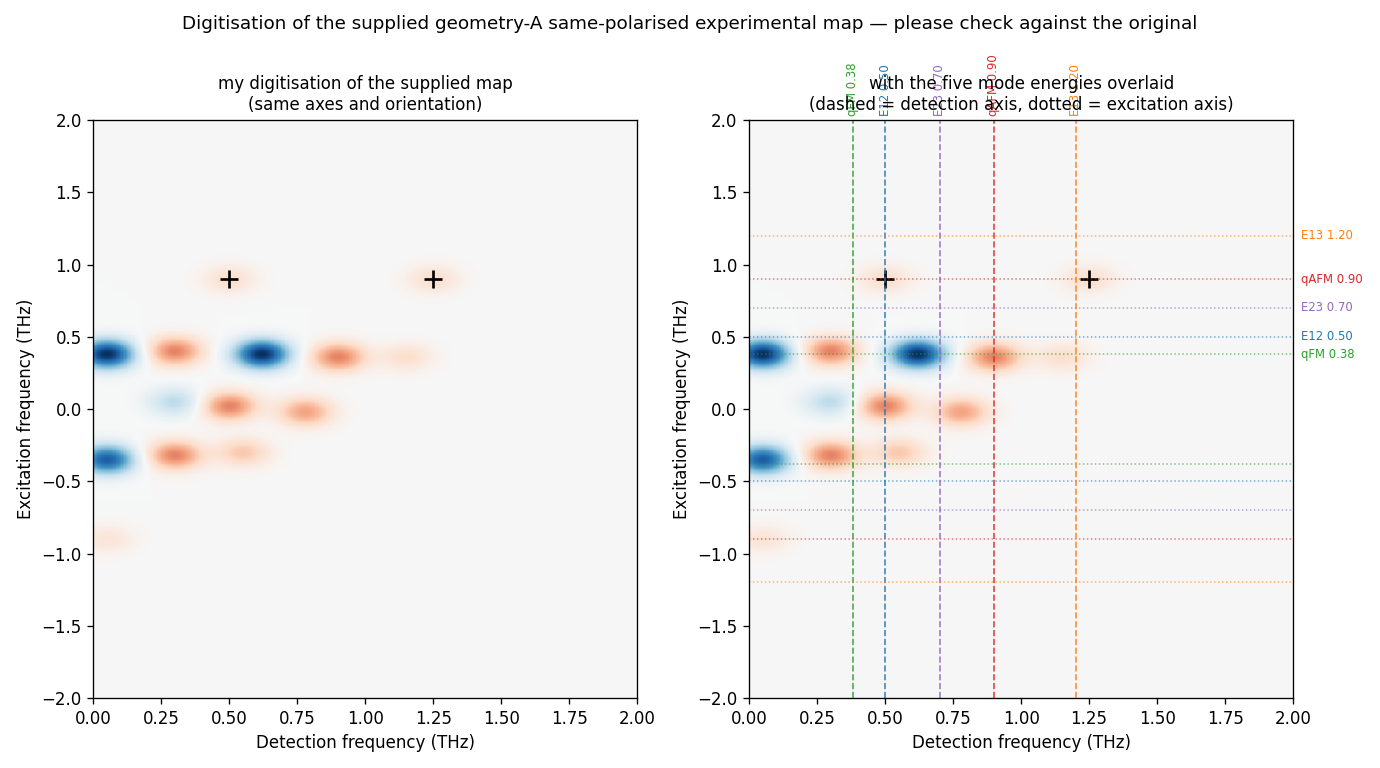
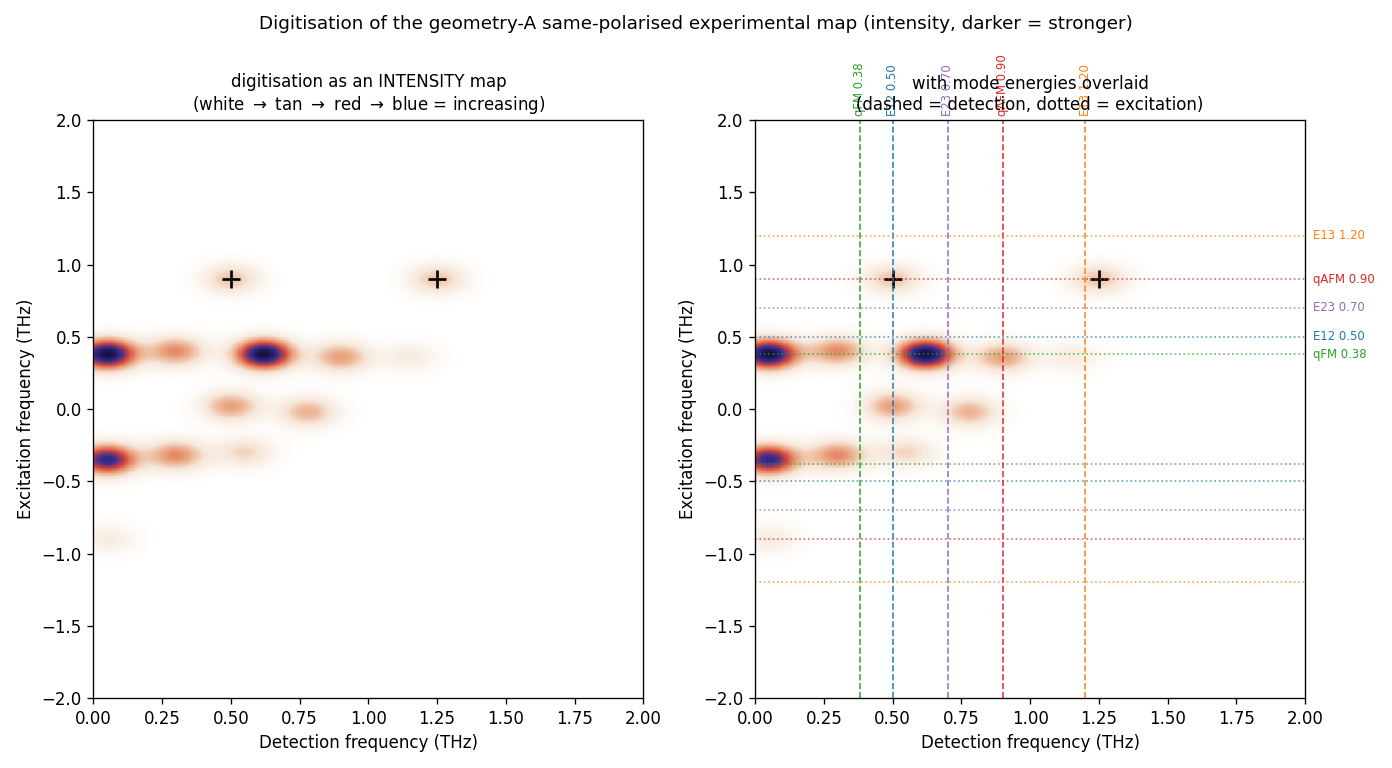
Correct the digitisation: the experimental map is an INTENSITY map, not signed
My first reading treated the red/blue colour scale as diverging (signed) and so
assigned the blue blobs negative amplitude. It is an intensity map: white -> tan
-> red -> dark blue with DARKER = LARGER, so the blue blobs are the STRONGEST
features and everything is positive. That makes it directly comparable with our
|FFT| censuses (no real-part component needed).

Corrected peak list, our convention (omega_tau, omega_t), normalised:
   1.00  (+0.38, 0.05)      <- qFM excitation, near-DC detection
   1.00  (+0.38, 0.62)      <- qFM excitation
   0.85  (-0.35, 0.05)
   0.45  (+0.40, 0.30)  /  0.45  (-0.32, 0.30)
   0.40  (+0.36, 0.90)      <- qFM excitation, qAFM detection
   0.40  (+0.02, 0.50)  /  0.35  (-0.02, 0.78)   <- pump-probe row
   0.30  (+0.90, 0.50)      <- MARKED, (qAFM, E12)
   0.30  (+0.90, 1.25)      <- MARKED, (qAFM, E13)
   0.25  (-0.30, 0.55) ; 0.15 (+0.36, 1.15) ; 0.15 (-0.90, 0.05)

Structure: the map is dominated by the qFM (+-0.38) excitation rows, which carry
a progression in detection (0.05, 0.30, 0.62, 0.90, 1.15); there is NO strong
feature on a 0.50 (E12) excitation row; the two marked peaks sit on the qAFM
excitation row at ~0.3 of the maximum. Discrepancy with the earlier same-pol
list remains flagged in the json.

diff --git a/tfo_project/paper/scripts/digitise_experiment.py b/tfo_project/paper/scripts/digitise_experiment.py
@@ -1,34 +1,33 @@
 import json, numpy as np
 import matplotlib; matplotlib.use("Agg"); import matplotlib.pyplot as plt
+from matplotlib.colors import LinearSegmentedColormap
 d=json.load(open("tfo_project/paper/data/experiment_geomA_samepol_digitized.json"))
-fig,axs=plt.subplots(1,2,figsize=(11.5,6.4))
-X,Y=np.meshgrid(np.linspace(0,2,400),np.linspace(-2,2,700))
+# colour scale of the source figure: white -> tan -> red -> dark blue (darker = larger)
+cmap=LinearSegmentedColormap.from_list("exp",["#ffffff","#f6e6d8","#e8a07a","#d6453a","#3b2f8f","#141043"])
+fig,axs=plt.subplots(1,2,figsize=(11.6,6.4))
+X,Y=np.meshgrid(np.linspace(0,2,500),np.linspace(-2,2,800))
 Z=np.zeros_like(X)
 for f in d["all_features"]:
-    s=1.0 if f["sign"]=="+" else -1.0
-    Z+=s*f["amp"]*np.exp(-((X-f["detection"])**2/(2*0.07**2)+(Y-f["excitation"])**2/(2*0.07**2)))
-m=np.abs(Z).max()
-for k,ax in enumerate(axs):
-    ax.pcolormesh(X,Y,Z,cmap="RdBu_r",vmin=-m,vmax=m,shading="auto",rasterized=True)
+    Z+=f["amp"]*np.exp(-((X-f["detection"])**2/(2*0.075**2)+(Y-f["excitation"])**2/(2*0.075**2)))
+for ax in axs:
+    ax.pcolormesh(X,Y,Z,cmap=cmap,vmin=0,vmax=Z.max(),shading="auto",rasterized=True)
     for p in d["marked_peaks"]:
         ax.plot(p["detection"],p["excitation"],"+",color="k",ms=11,mew=1.6)
     ax.set_xlabel("Detection frequency (THz)"); ax.set_ylabel("Excitation frequency (THz)")
     ax.set_xlim(0,2); ax.set_ylim(-2,2)
-axs[0].set_title("my digitisation of the supplied map\n(same axes and orientation)",fontsize=10)
+axs[0].set_title("digitisation as an INTENSITY map\n(white $\\to$ tan $\\to$ red $\\to$ blue = increasing)",fontsize=10)
 ax=axs[1]
 for nm,v,c in [("qFM 0.38",0.38,"C2"),("E12 0.50",0.50,"C0"),("E23 0.70",0.70,"C4"),
                ("qAFM 0.90",0.90,"C3"),("E13 1.20",1.20,"C1")]:
-    ax.axvline(v,color=c,ls="--",lw=1.0,alpha=0.85)
-    ax.axhline(v,color=c,ls=":",lw=0.9,alpha=0.6); ax.axhline(-v,color=c,ls=":",lw=0.9,alpha=0.6)
+    ax.axvline(v,color=c,ls="--",lw=1.0,alpha=0.9)
+    ax.axhline(v,color=c,ls=":",lw=1.0,alpha=0.7); ax.axhline(-v,color=c,ls=":",lw=1.0,alpha=0.7)
     ax.text(v,2.03,nm,rotation=90,fontsize=7,color=c,va="bottom",ha="center")
     ax.text(2.03,v,nm,fontsize=7,color=c,va="center")
-ax.set_title("with the five mode energies overlaid\n(dashed = detection axis, dotted = excitation axis)",fontsize=10)
-fig.suptitle("Digitisation of the supplied geometry-A same-polarised experimental map — please check against the original",fontsize=11)
+ax.set_title("with mode energies overlaid\n(dashed = detection, dotted = excitation)",fontsize=10)
+fig.suptitle("Digitisation of the geometry-A same-polarised experimental map (intensity, darker = stronger)",fontsize=11)
 fig.tight_layout(); fig.savefig("tfo_project/paper/figs/experiment_digitised.png",dpi=120)
-print("saved figs/experiment_digitised.png")
-print("\nMARKED peaks, in our convention (omega_tau, omega_t):")
-for p in d["marked_peaks"]:
-    print(f"   ({p['excitation']:.2f}, {p['detection']:.2f})  = {p['assignment']}")
-rows=sorted({round(f["excitation"],2) for f in d["all_features"] if f["amp"]>=1.5})
-print("\nDominant unmarked structure sits on excitation rows:",rows)
-print("   -> qFM (0.38) and 0, NOT E12 (0.50)")
+print("saved figs/experiment_digitised.png\n")
+print("PEAK LIST in our convention (omega_tau, omega_t), normalised:")
+for f in sorted(d["all_features"],key=lambda z:-z["amp"]):
+    tag=" <-- MARKED" if "MARKED" in f.get("note","") else ""
+    print(f"   {f['amp']:4.2f}   ({f['excitation']:+.2f}, {f['detection']:.2f}){tag}")
